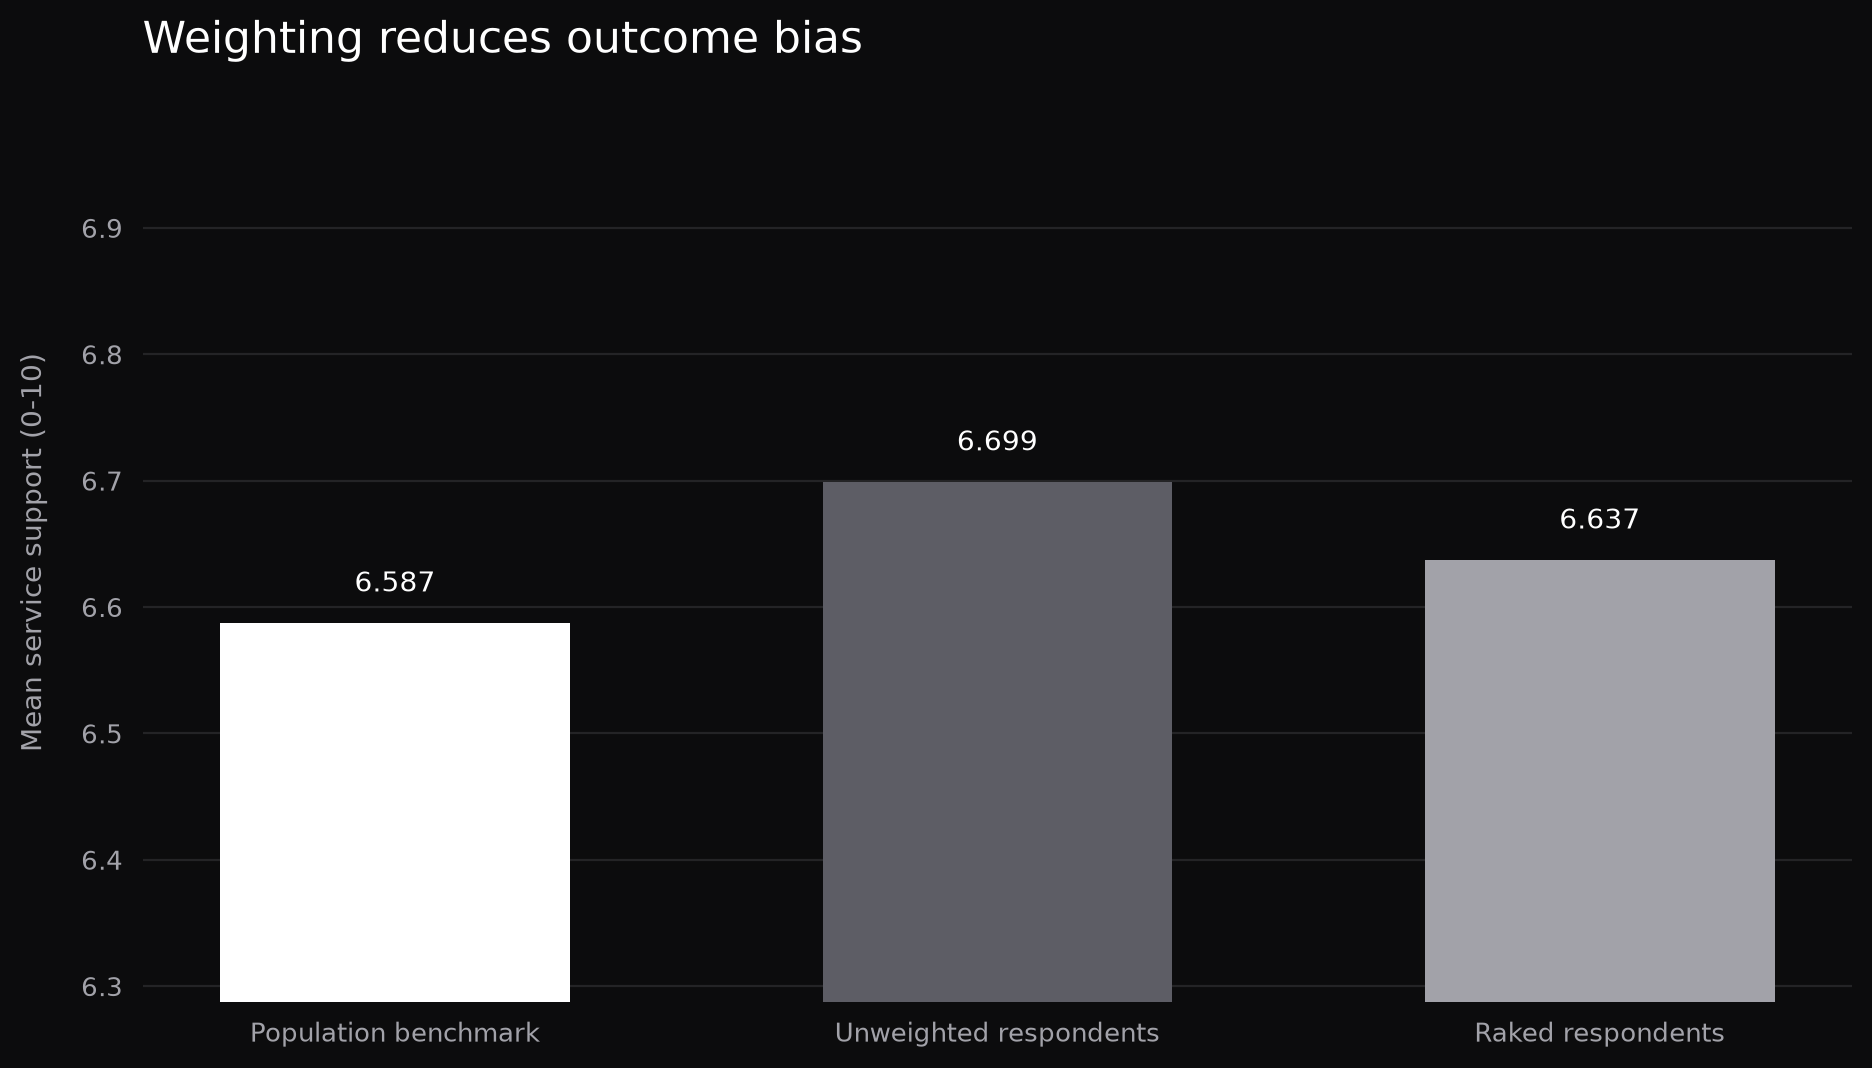
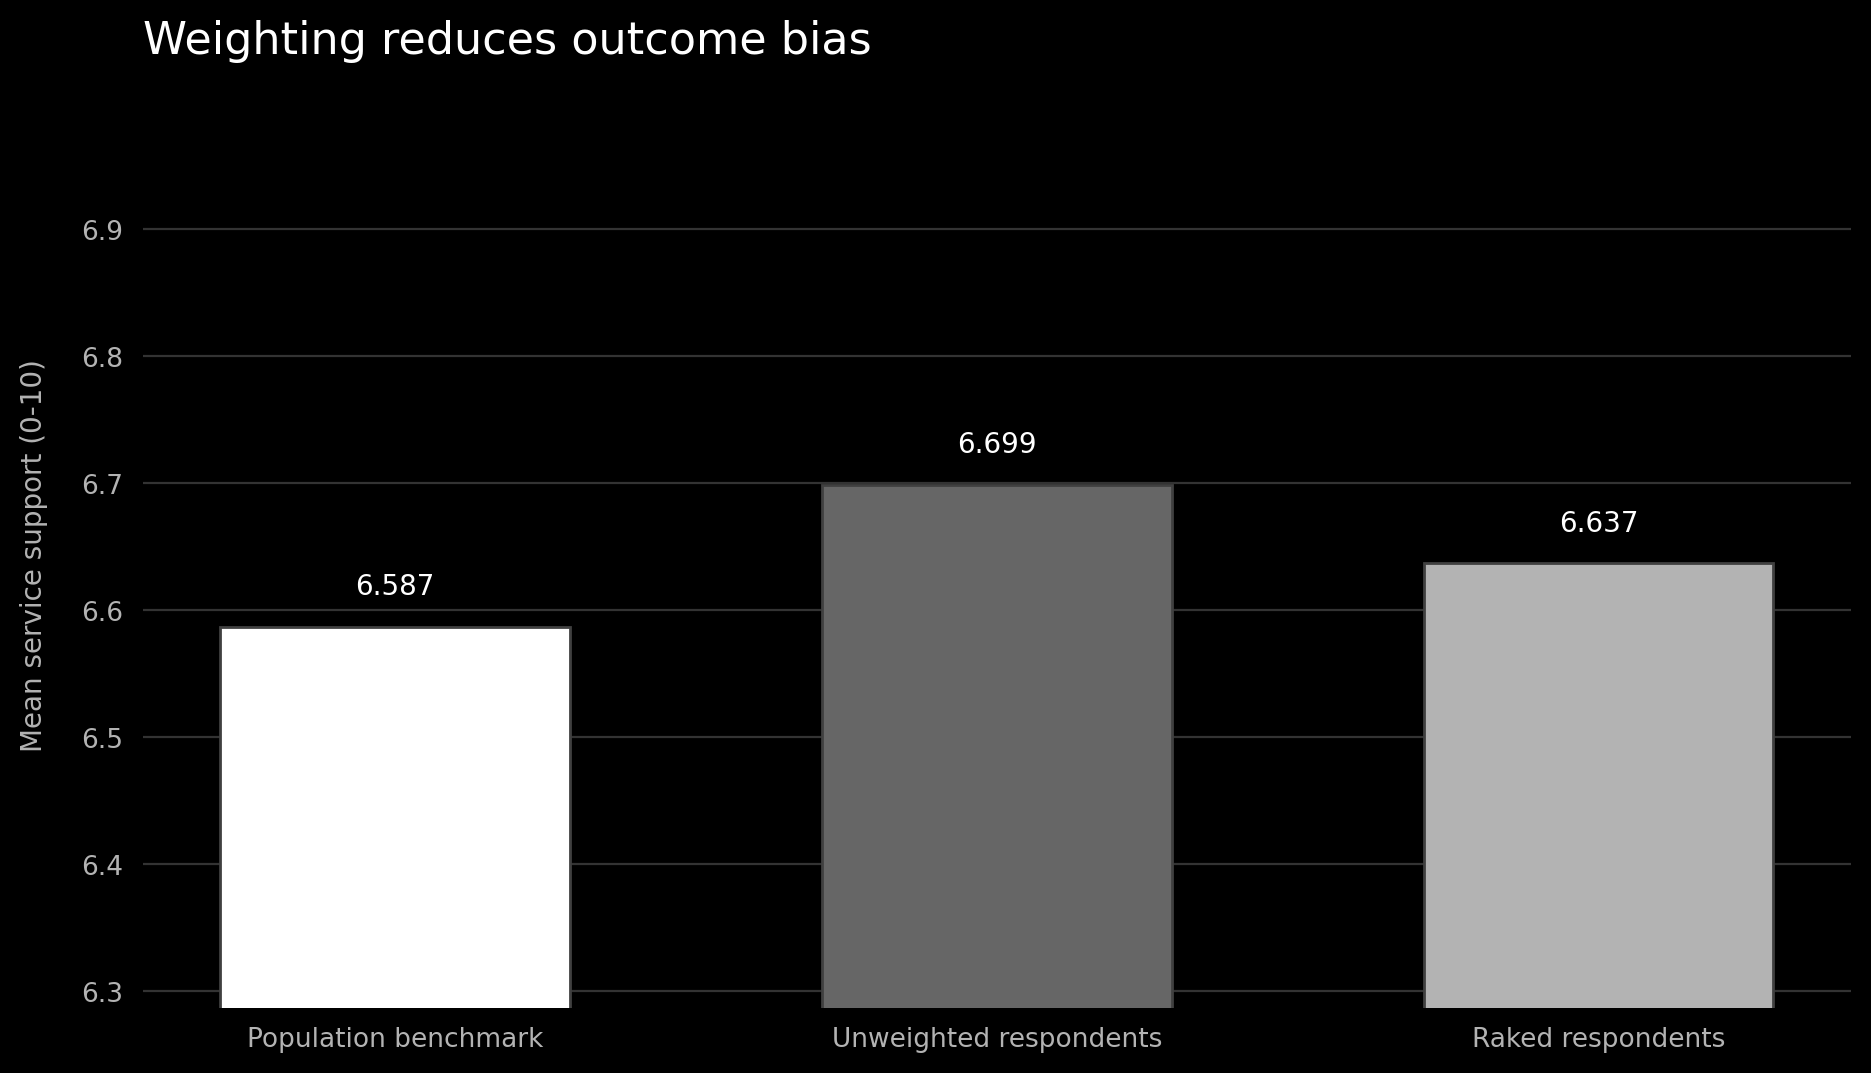
Align chart colors with website palette

diff --git a/analysis_core.py b/analysis_core.py
@@ -16,7 +16,8 @@ POPULATION_SIZE, SAMPLE_SIZE, SEED = 50_000, 6_000, 20260812
 AGE_BANDS = ["18-24", "25-34", "35-44", "45-54", "55-64", "65-74"]
 REGIONS = ["London", "South", "Midlands", "North", "Scotland/Wales"]
 GENDERS = ["Woman", "Man", "Non-binary / other"]
-BG, TEXT, MUTED, LINE, BAR, ACCENT = "#0C0C0D", "#FFFFFF", "#A2A2A9", "#313135", "#5D5D65", "#FFFFFF"
+BG, TEXT, MUTED = "#000000", "#FFFFFF", "#B3B3B3"
+LINE, GRID, BAR, ACCENT = "#404040", "#333333", "#666666", "#FFFFFF"
 
 
 def run_git(*args):
@@ -163,29 +164,29 @@ def style(ax, axis):
     ax.figure.patch.set_facecolor(BG); ax.set_facecolor(BG); ax.tick_params(colors=MUTED, labelsize=9.5, length=0, pad=7)
     ax.xaxis.label.set_color(MUTED); ax.yaxis.label.set_color(MUTED); ax.title.set_color(TEXT)
     for spine in ax.spines.values(): spine.set_visible(False)
-    ax.grid(axis=axis, color=LINE, linewidth=.8, alpha=.65); ax.set_axisbelow(True)
+    ax.grid(axis=axis, color=GRID, linewidth=.8); ax.set_axisbelow(True)
 
 
 def create_figures(response, composition, estimates):
     FIGURE_DIR.mkdir(parents=True, exist_ok=True)
     age = response[response.variable.eq("age_band")].set_index("category").reindex(AGE_BANDS)
     fig, ax = plt.subplots(figsize=(9.6, 5.6)); style(ax, "x")
-    bars = ax.barh(age.index, age.response_rate*100, color=BAR, height=.6)
+    bars = ax.barh(age.index, age.response_rate*100, color=BAR, edgecolor=LINE, height=.6)
     ax.set_xlabel("Response rate (%)", labelpad=12); ax.set_title("Response rates vary by age", loc="left", pad=18, fontsize=16, fontweight=400, color=TEXT)
     for bar, value in zip(bars, age.response_rate*100): ax.text(value+.4, bar.get_y()+bar.get_height()/2, f"{value:.1f}%", va="center", color=TEXT)
     fig.tight_layout(pad=1.6); fig.savefig(FIGURE_DIR / "response_rate_by_age.png", dpi=200, facecolor=BG, bbox_inches="tight"); plt.close(fig)
     deviation = composition.groupby("variable")[["unweighted_difference_pp", "weighted_difference_pp"]].apply(lambda x: x.abs().mean())
     fig, ax = plt.subplots(figsize=(9.6, 5.6)); style(ax, "y")
     x=np.arange(len(deviation)); width=.34
-    ax.bar(x-width/2, deviation.unweighted_difference_pp, width, color=BAR, label="Unweighted")
-    ax.bar(x+width/2, deviation.weighted_difference_pp, width, color=ACCENT, label="Weighted")
+    ax.bar(x-width/2, deviation.unweighted_difference_pp, width, color=BAR, edgecolor=LINE, label="Unweighted")
+    ax.bar(x+width/2, deviation.weighted_difference_pp, width, color=ACCENT, edgecolor=LINE, label="Weighted")
     ax.set_xticks(x, [v.replace("_", " ").title() for v in deviation.index]); ax.set_ylabel("Average absolute deviation (pp)", labelpad=12)
     ax.set_title("Weighting improves population alignment", loc="left", pad=18, fontsize=16, fontweight=400, color=TEXT)
     legend=ax.legend(frameon=False); [t.set_color(MUTED) for t in legend.get_texts()]
     fig.tight_layout(pad=1.6); fig.savefig(FIGURE_DIR / "composition_deviation_before_after_weighting.png", dpi=200, facecolor=BG, bbox_inches="tight"); plt.close(fig)
     fig, ax = plt.subplots(figsize=(9.6, 5.6)); style(ax, "y")
     labels=estimates.estimate.tolist(); values=estimates.mean_service_support.tolist(); colors=[ACCENT, BAR, MUTED]
-    bars=ax.bar(labels, values, color=colors, width=.58); ax.set_ylim(min(values)-.3, max(values)+.3); ax.set_ylabel("Mean service support (0-10)", labelpad=12)
+    bars=ax.bar(labels, values, color=colors, edgecolor=LINE, width=.58); ax.set_ylim(min(values)-.3, max(values)+.3); ax.set_ylabel("Mean service support (0-10)", labelpad=12)
     ax.set_title("Weighting reduces outcome bias", loc="left", pad=18, fontsize=16, fontweight=400, color=TEXT)
     for bar,value in zip(bars,values): ax.text(bar.get_x()+bar.get_width()/2,value+.025,f"{value:.3f}",ha="center",color=TEXT)
     fig.tight_layout(pad=1.6); fig.savefig(FIGURE_DIR / "estimate_bias_before_after_weighting.png", dpi=200, facecolor=BG, bbox_inches="tight"); plt.close(fig)
